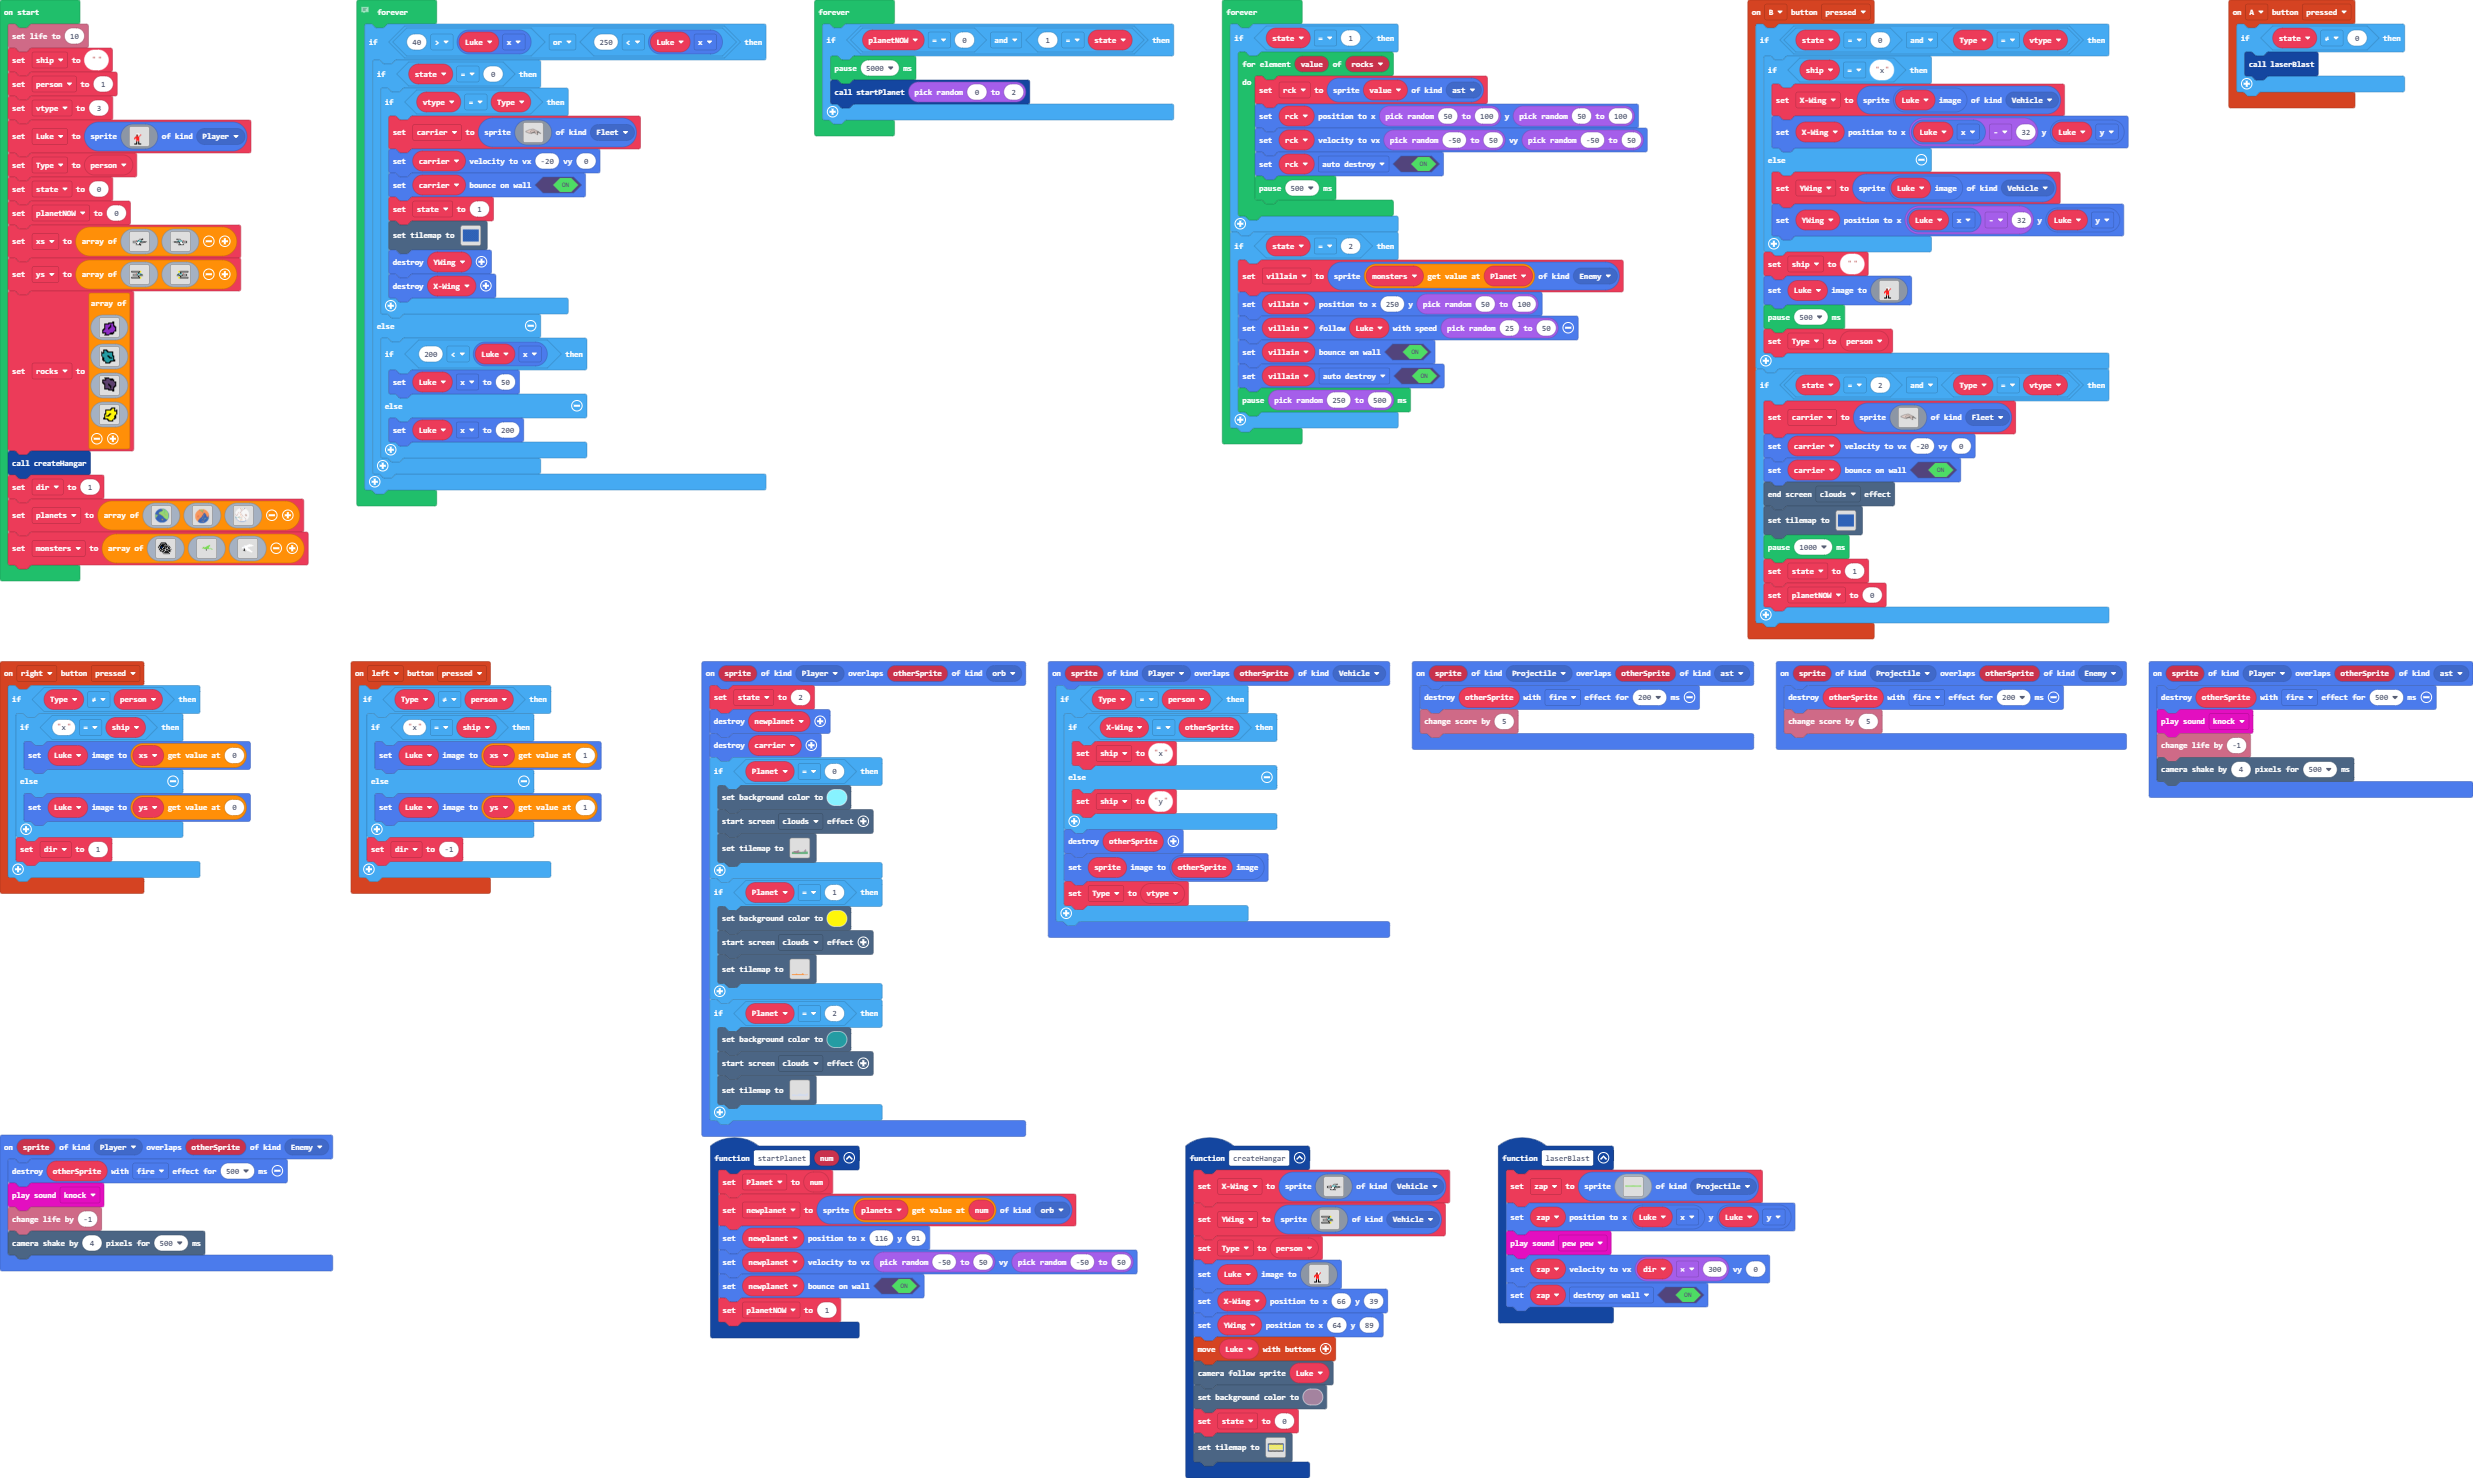
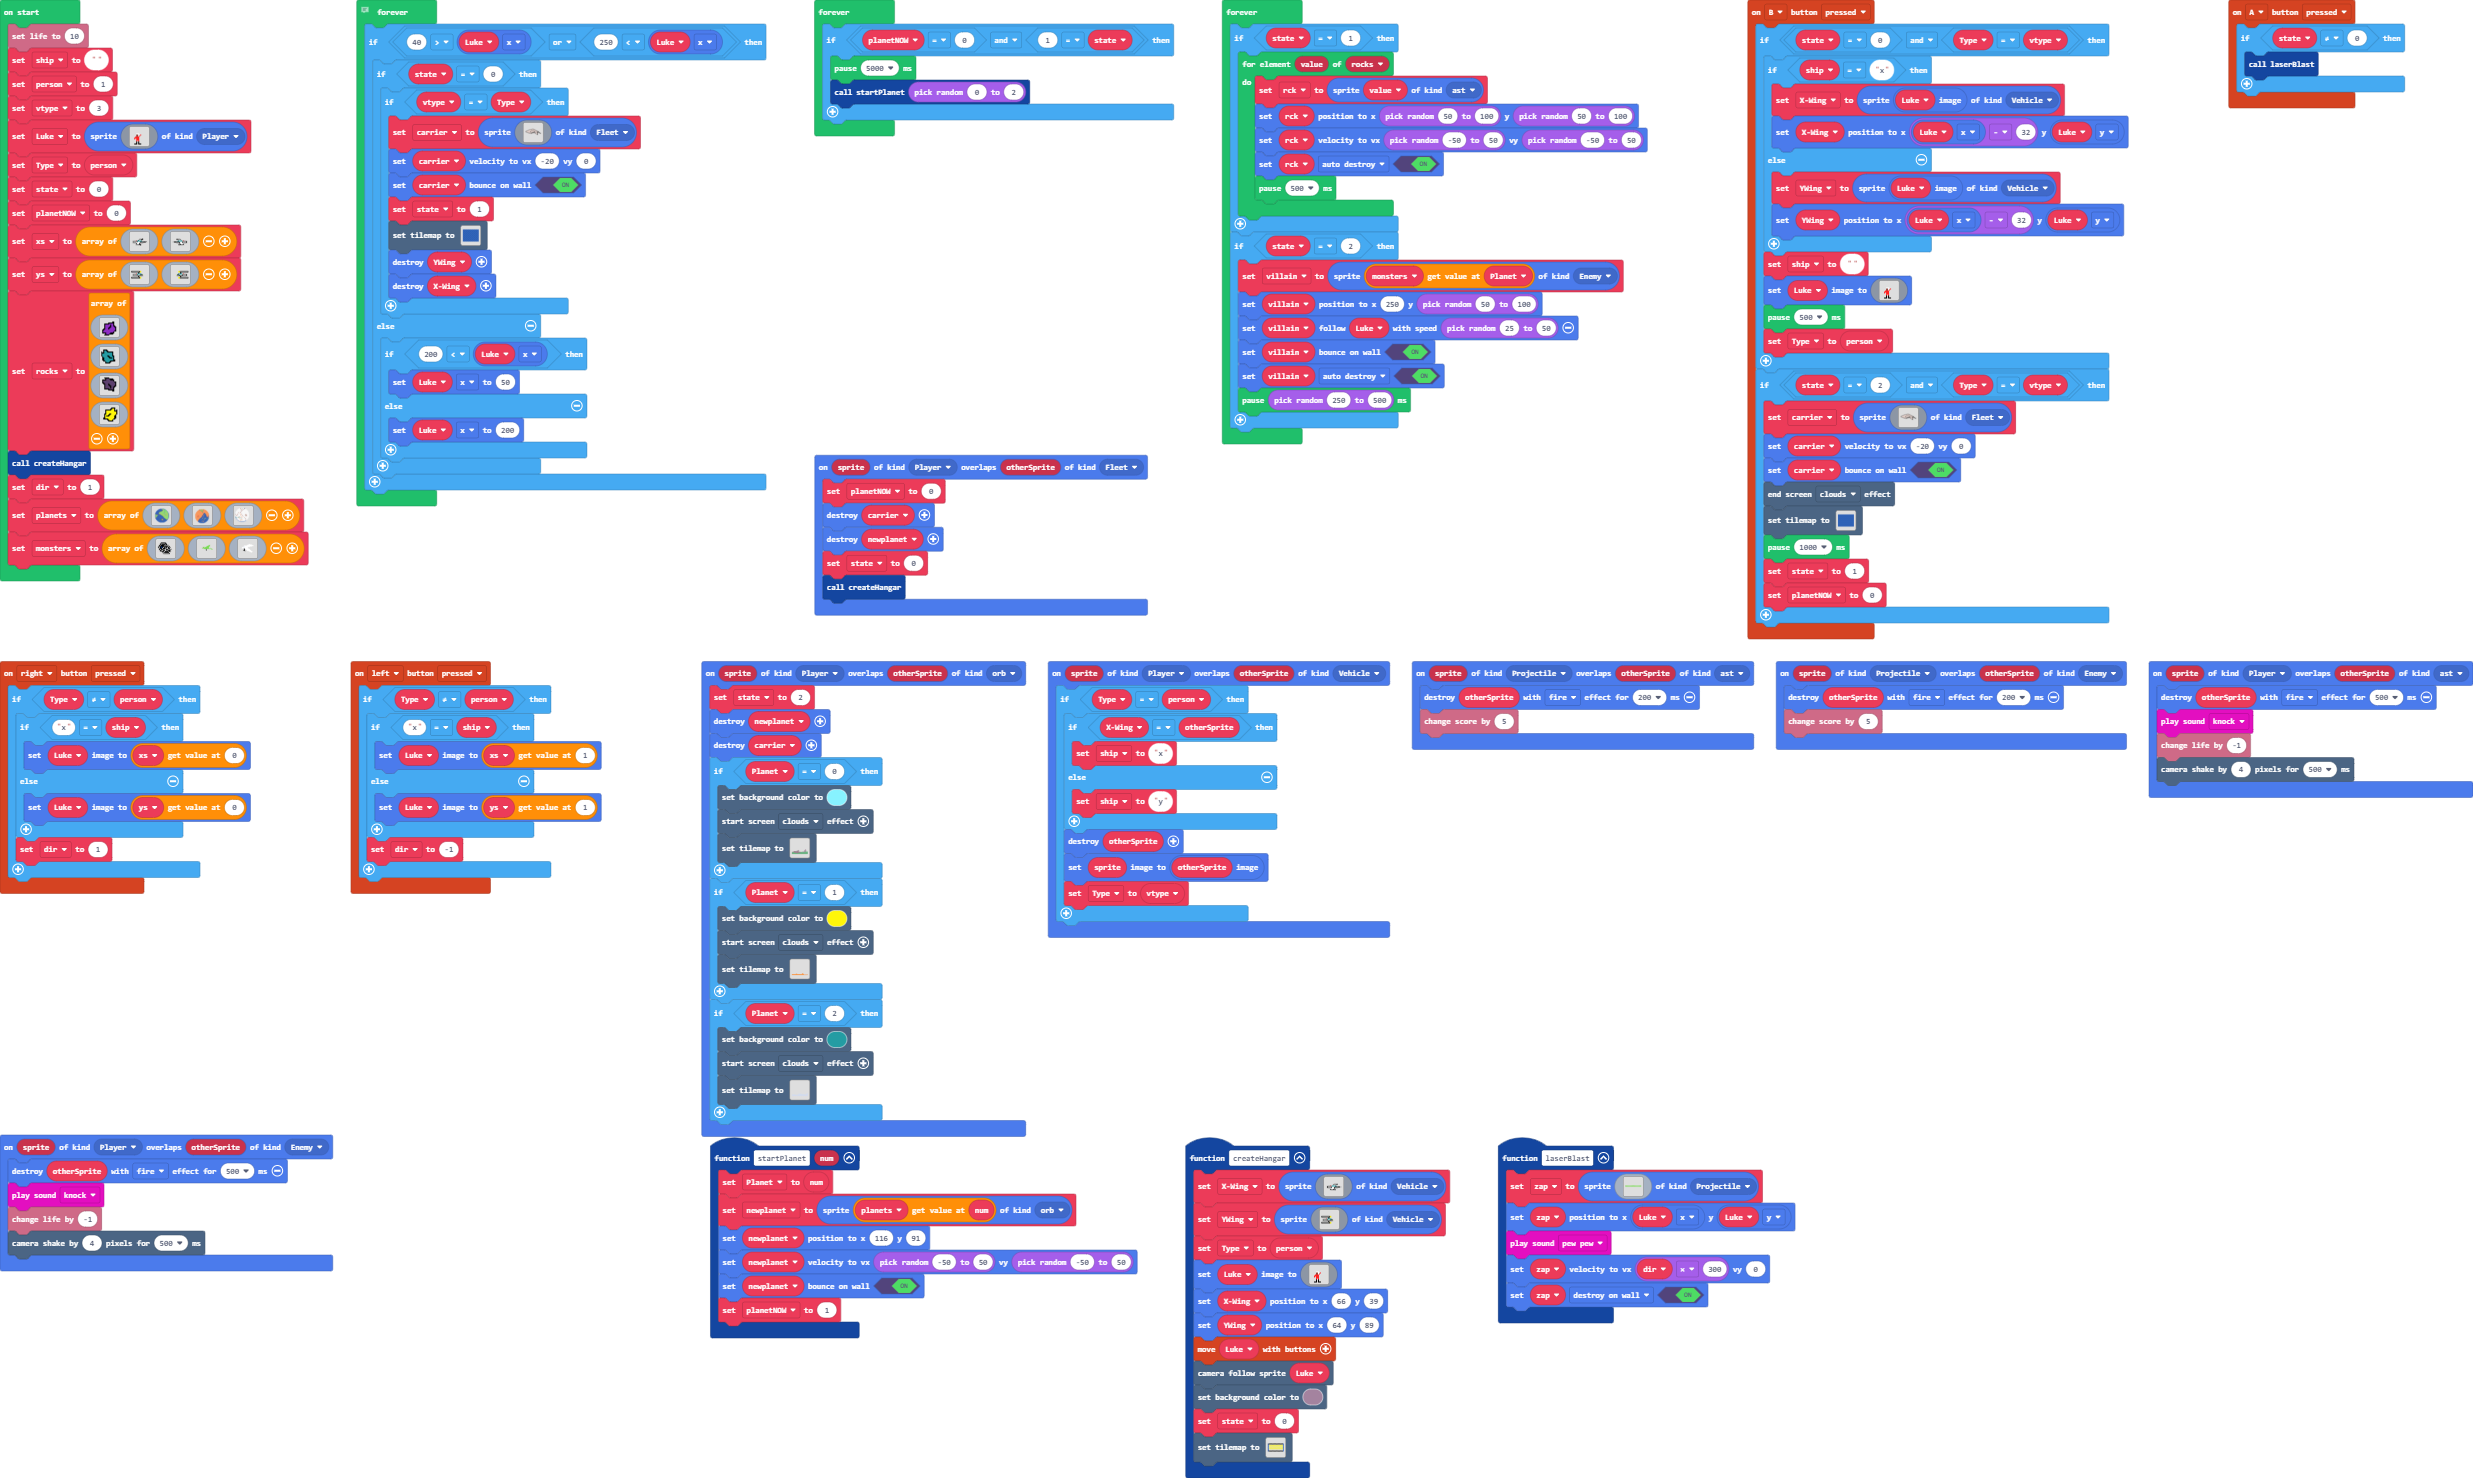
Update main.blocks, main.ts

Changed region(s): [[0.3114, 0.2801, 0.467, 0.4357]]

diff --git a/main.ts b/main.ts
@@ -77,6 +77,13 @@ controller.left.onEvent(ControllerButtonEvent.Pressed, function () {
         dir = -1
     }
 })
+sprites.onOverlap(SpriteKind.Player, SpriteKind.Fleet, function (sprite, otherSprite) {
+    planetNOW = 0
+    carrier.destroy()
+    newplanet.destroy()
+    state = 0
+    createHangar()
+})
 sprites.onOverlap(SpriteKind.Player, SpriteKind.orb, function (sprite, otherSprite) {
     state = 2
     newplanet.destroy()
